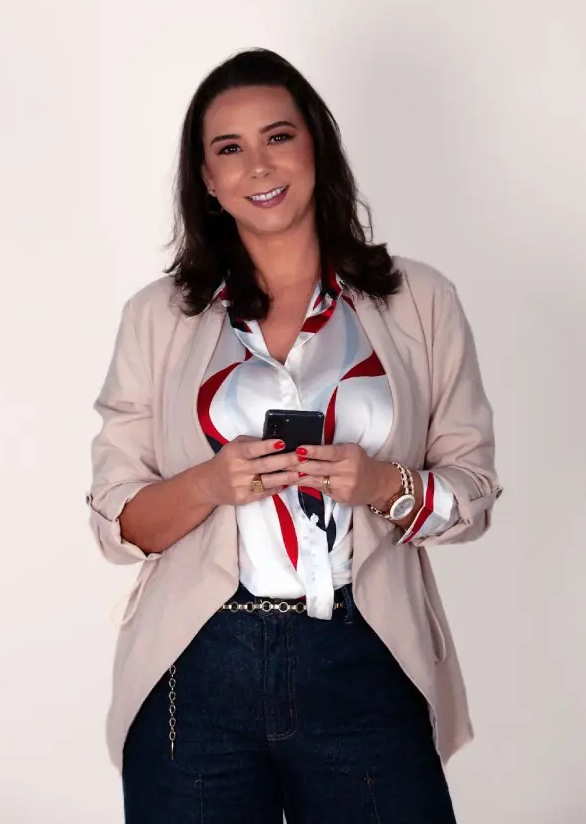
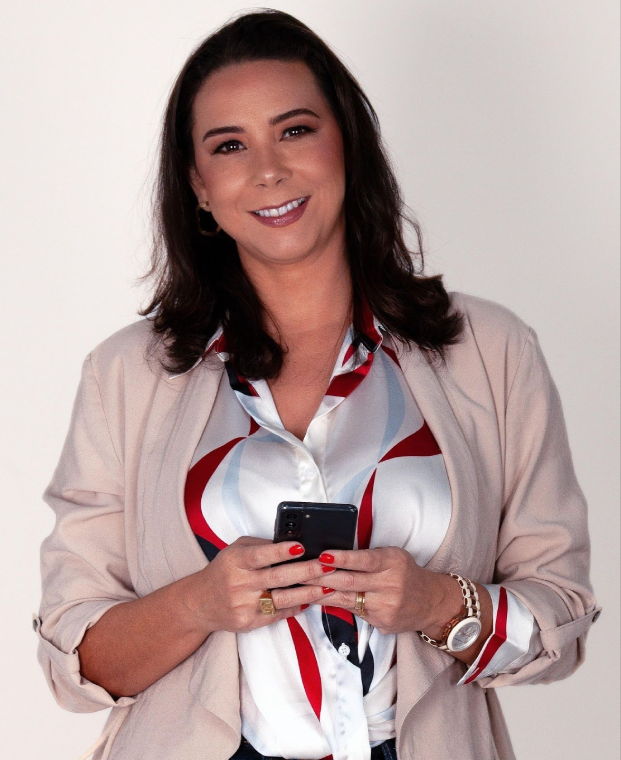
fix: Ajustes e imagens novas

diff --git a/src/components/sections/HeroTemplateNovo.jsx b/src/components/sections/HeroTemplateNovo.jsx
@@ -80,8 +80,9 @@ function HeroTemplateNovo({
       icon: <Clock width={16} />,
       text: (
         <p>
-          Recuperação do acesso em <strong>48 horas</strong> mediante tutela de
-          urgência
+          Recuperação do acesso em{' '}
+          <strong className={`${textDestaque}`}>48 horas</strong> mediante
+          tutela de urgência
         </p>
       ),
     },
@@ -90,7 +91,7 @@ function HeroTemplateNovo({
       text: (
         <p>
           Possibilidade de indenização por danos morais de até{' '}
-          <strong>R$15.000,00</strong>
+          <strong className={`${textDestaque}`}>R$15.000,00</strong>
         </p>
       ),
     },
@@ -107,7 +108,7 @@ function HeroTemplateNovo({
       paddingTopAndBottom={false}
       className={`${backgroundMode}`}
     >
-      <section className="relative min-h-[90vh] w-full pt-[90px] phone2:pt-[90px] pb-[30px] tablet1:pb-[64px] desktop1:pb-[96px] phone3:pt-[100px] tablet1:pt-[170px] desktop1:pt-[180px] flex items-center justify-center overflow-hidden font-mainFont">
+      <section className="relative min-h-[90vh] w-full pt-[90px] phone2:pt-[90px] phone3:pt-[120px] pb-[30px] tablet1:pb-[64px] desktop1:pb-[96px] tablet1:pt-[170px] desktop1:pt-[180px] flex items-center justify-center overflow-hidden font-mainFont">
         {/* Abstract Background Shapes */}
         <div
           className={`absolute top-0 right-[-10px] h-full w-[80%] -skew-x-12 translate-x-2/4 z-0 ${bgFaixaHero}`}
@@ -147,12 +148,12 @@ function HeroTemplateNovo({
               </p>
 
               <div
-                className={`border font-secondFont p-2 rounded-md border-primaryDark text-[8px] phone2:text-[12px] phone3:text-[14px]`}
+                className={`max-w-[340px] font-secondFont p-2 phone3:p-6 bg-white rounded-xl border border-primaryDark text-[8px] phone2:text-[12px] phone3:text-[14px] flex flex-col gap-3`}
               >
                 {topicsCard.map((item, index) => (
-                  <div key={index} className="flex gap-2">
-                    <span className={`${textDestaque}`}>{item.icon}</span>
-                    <p>{item.text}</p>
+                  <div key={index} className="flex gap-2 items-center">
+                    <span className={`text-primaryDark`}>{item.icon}</span>
+                    <p className={`font-bold ${text}`}>{item.text}</p>
                   </div>
                 ))}
               </div>

diff --git a/src/content/content.jsx b/src/content/content.jsx
@@ -237,16 +237,13 @@ const content = {
           paragraph: (
             <p>
               Porque muitas suspensões e invasões{' '}
-              <strong>não acontecem por culpa do usuário</strong>. <br />
+              <strong>não acontecem por culpa do usuário.</strong>. <br />
               Falhas de segurança, denúncias indevidas e abuso da plataforma são
               comuns — e{' '}
               <strong>
                 podem gerar direito à recuperação da conta e indenização
               </strong>
               .
-              <br />
-              <br />
-              Agir rápido pode evitar perdas maiores.
             </p>
           ),
         },

diff --git a/src/components/cards/CardsImportants.jsx b/src/components/cards/CardsImportants.jsx
@@ -30,7 +30,7 @@ function CardsImportants({ title, paragraph, colorMode }) {
         {paragraph}
       </p>
 
-      <div className="absolute bg-primaryDark border-2 group-hover:bg-white group-hover:border-2 group-hover:border-black duration-700 transition-all rounded-full p-3 -top-6 left-6">
+      <div className="absolute bg-primaryDark border-2 group-hover:bg-white group-hover:border-2 group-hover:border-primaryDark duration-700 transition-all rounded-full p-3 -top-6 left-6">
         <img
           src={imgIcon}
           width={32}
